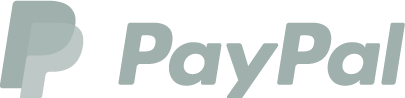
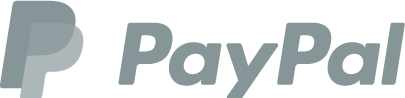
mobile menu color, t&C color

diff --git a/mycha_mob/css/style.css b/mycha_mob/css/style.css
@@ -194,11 +194,14 @@ footer section:nth-child(2) {
 	}
 footer a {
 	font-size: .9em;
-	color: #9FB0AD;
+	color: #869598;
 	text-decoration: underline;
 	}
-footer a:visited, footer a:hover, footer a:active {
-	color: #9FB0AD;	
+footer a:hover {
+	color:#000;	
+	}
+footer a:visited, footer a:active {
+	color: #869598;	
 	}
 #wrapper {
     /*min-height: 100%;*/
@@ -844,8 +847,12 @@ img.photo1 {
 	
 	}
 	body.home {
-	background: url(../images2/packages_bg_smaller.jpg); /* file size smaller
+	background: url(../images2/packages_bg_smaller.jpg) no-repeat center center fixed; /* file size smaller
        for mobile internet connections */
+	-webkit-background-size: cover;
+	-moz-background-size: cover;
+	-o-background-size: cover;
+	background-size: cover;
 	}
 	header nav a {
 	 margin: 0 7px;
@@ -1004,7 +1011,8 @@ img.photo1 {
 	  	display: block;
 	}
 	header nav {
-		 background-color: #bff141;
+		 /*background-color: #bff141;*/
+		 background-color: #e8f2d2;
 		 margin-bottom:0;
 	}
 	header nav a {

diff --git a/mycha_mob/about.html b/mycha_mob/about.html
@@ -106,7 +106,7 @@
 				       </div>
 				 </form>
 				 <a class="fb" href="https://www.facebook.com/mychaface">
-					<img src="images/facebook-outline_grey.png" alt="facebook">
+					<img src="images/facebook-outline1.png" alt="facebook">
 				</a>
 			</section>
 			<section>

diff --git a/mycha_mob/beauty.html b/mycha_mob/beauty.html
@@ -106,7 +106,7 @@
 				       </div>
 				 </form>
 				 <a class="fb" href="https://www.facebook.com/mychaface">
-					<img src="images/facebook-outline_grey.png" alt="facebook">
+					<img src="images/facebook-outline1.png" alt="facebook">
 				</a>
 			</section>
 			<section>

diff --git a/mycha_mob/buy.html b/mycha_mob/buy.html
@@ -362,7 +362,7 @@
 				       </div>
 				 </form>
 				 <a class="fb" href="https://www.facebook.com/mychaface">
-					<img src="images/facebook-outline_grey.png" alt="facebook">
+					<img src="images/facebook-outline1.png" alt="facebook">
 				</a>
 			</section>
 			<section>

diff --git a/mycha_mob/calming.html b/mycha_mob/calming.html
@@ -147,7 +147,7 @@
 				       </div>
 				 </form>
 				 <a class="fb" href="https://www.facebook.com/mychaface">
-					<img src="images/facebook-outline_grey.png" alt="facebook">
+					<img src="images/facebook-outline1.png" alt="facebook">
 				</a>
 			</section>
 			<section>

diff --git a/mycha_mob/detox.html b/mycha_mob/detox.html
@@ -149,7 +149,7 @@
 				       </div>
 				 </form>
 				 <a class="fb" href="https://www.facebook.com/mychaface">
-					<img src="images/facebook-outline_grey.png" alt="facebook">
+					<img src="images/facebook-outline1.png" alt="facebook">
 				</a>
 			</section>
 			<section>

diff --git a/mycha_mob/iced_tea.html b/mycha_mob/iced_tea.html
@@ -125,7 +125,7 @@
 				       </div>
 				 </form>
 				 <a class="fb" href="https://www.facebook.com/mychaface">
-					<img src="images/facebook-outline_grey.png" alt="facebook">
+					<img src="images/facebook-outline1.png" alt="facebook">
 				</a>
 			</section>
 			<section>

diff --git a/mycha_mob/tonic.html b/mycha_mob/tonic.html
@@ -166,7 +166,7 @@
 				       </div>
 				 </form>
 				 <a class="fb" href="https://www.facebook.com/mychaface">
-					<img src="images/facebook-outline_grey.png" alt="facebook">
+					<img src="images/facebook-outline1.png" alt="facebook">
 				</a>
 			</section>
 			<section>

diff --git a/mycha_mob/contact.html b/mycha_mob/contact.html
@@ -78,7 +78,7 @@
 				       </div>
 				 </form>
 				 <a class="fb" href="https://www.facebook.com/mychaface">
-					<img src="images/facebook-outline_grey.png" alt="facebook">
+					<img src="images/facebook-outline1.png" alt="facebook">
 				</a>
 			</section>
 			<section>

diff --git a/mycha_mob/index.html b/mycha_mob/index.html
@@ -56,7 +56,7 @@
 				       </div>
 				 </form>
 				 <a class="fb" href="https://www.facebook.com/mychaface">
-					<img src="images/facebook-outline_grey.png" alt="facebook">
+					<img src="images/facebook-outline1.png" alt="facebook">
 				</a>
 			</section>
 			<section>

diff --git a/mycha_mob/infusions.html b/mycha_mob/infusions.html
@@ -79,7 +79,7 @@
 				       </div>
 				 </form>
 				 <a class="fb" href="https://www.facebook.com/mychaface">
-					<img src="images/facebook-outline_grey.png" alt="facebook">
+					<img src="images/facebook-outline1.png" alt="facebook">
 				</a>
 			</section>
 			<section>

diff --git a/mycha_mob/tailor-made.html b/mycha_mob/tailor-made.html
@@ -81,7 +81,7 @@
 				       </div>
 				 </form>
 				 <a class="fb" href="https://www.facebook.com/mychaface">
-					<img src="images/facebook-outline_grey.png" alt="facebook">
+					<img src="images/facebook-outline1.png" alt="facebook">
 				</a>
 			</section>
 			<section>
